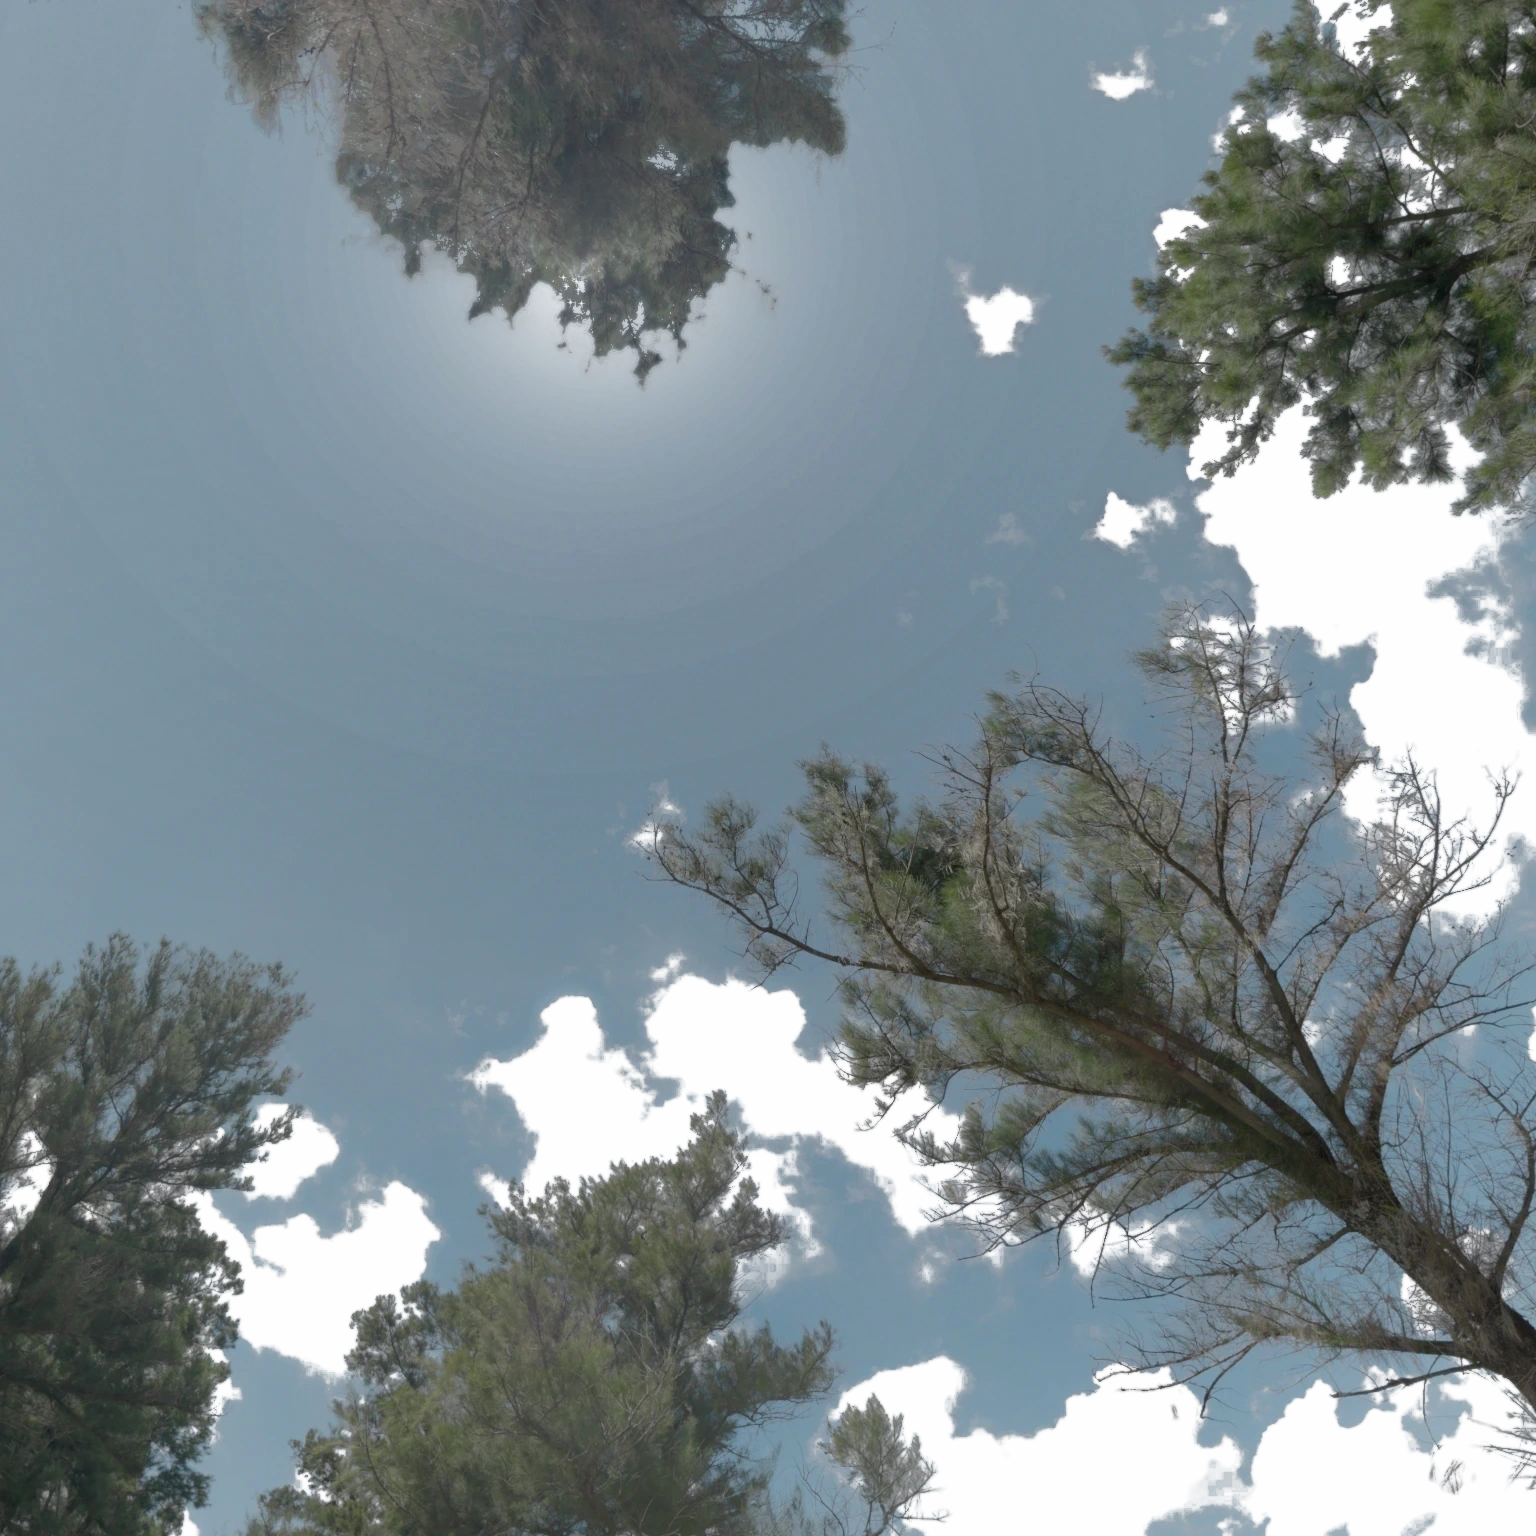
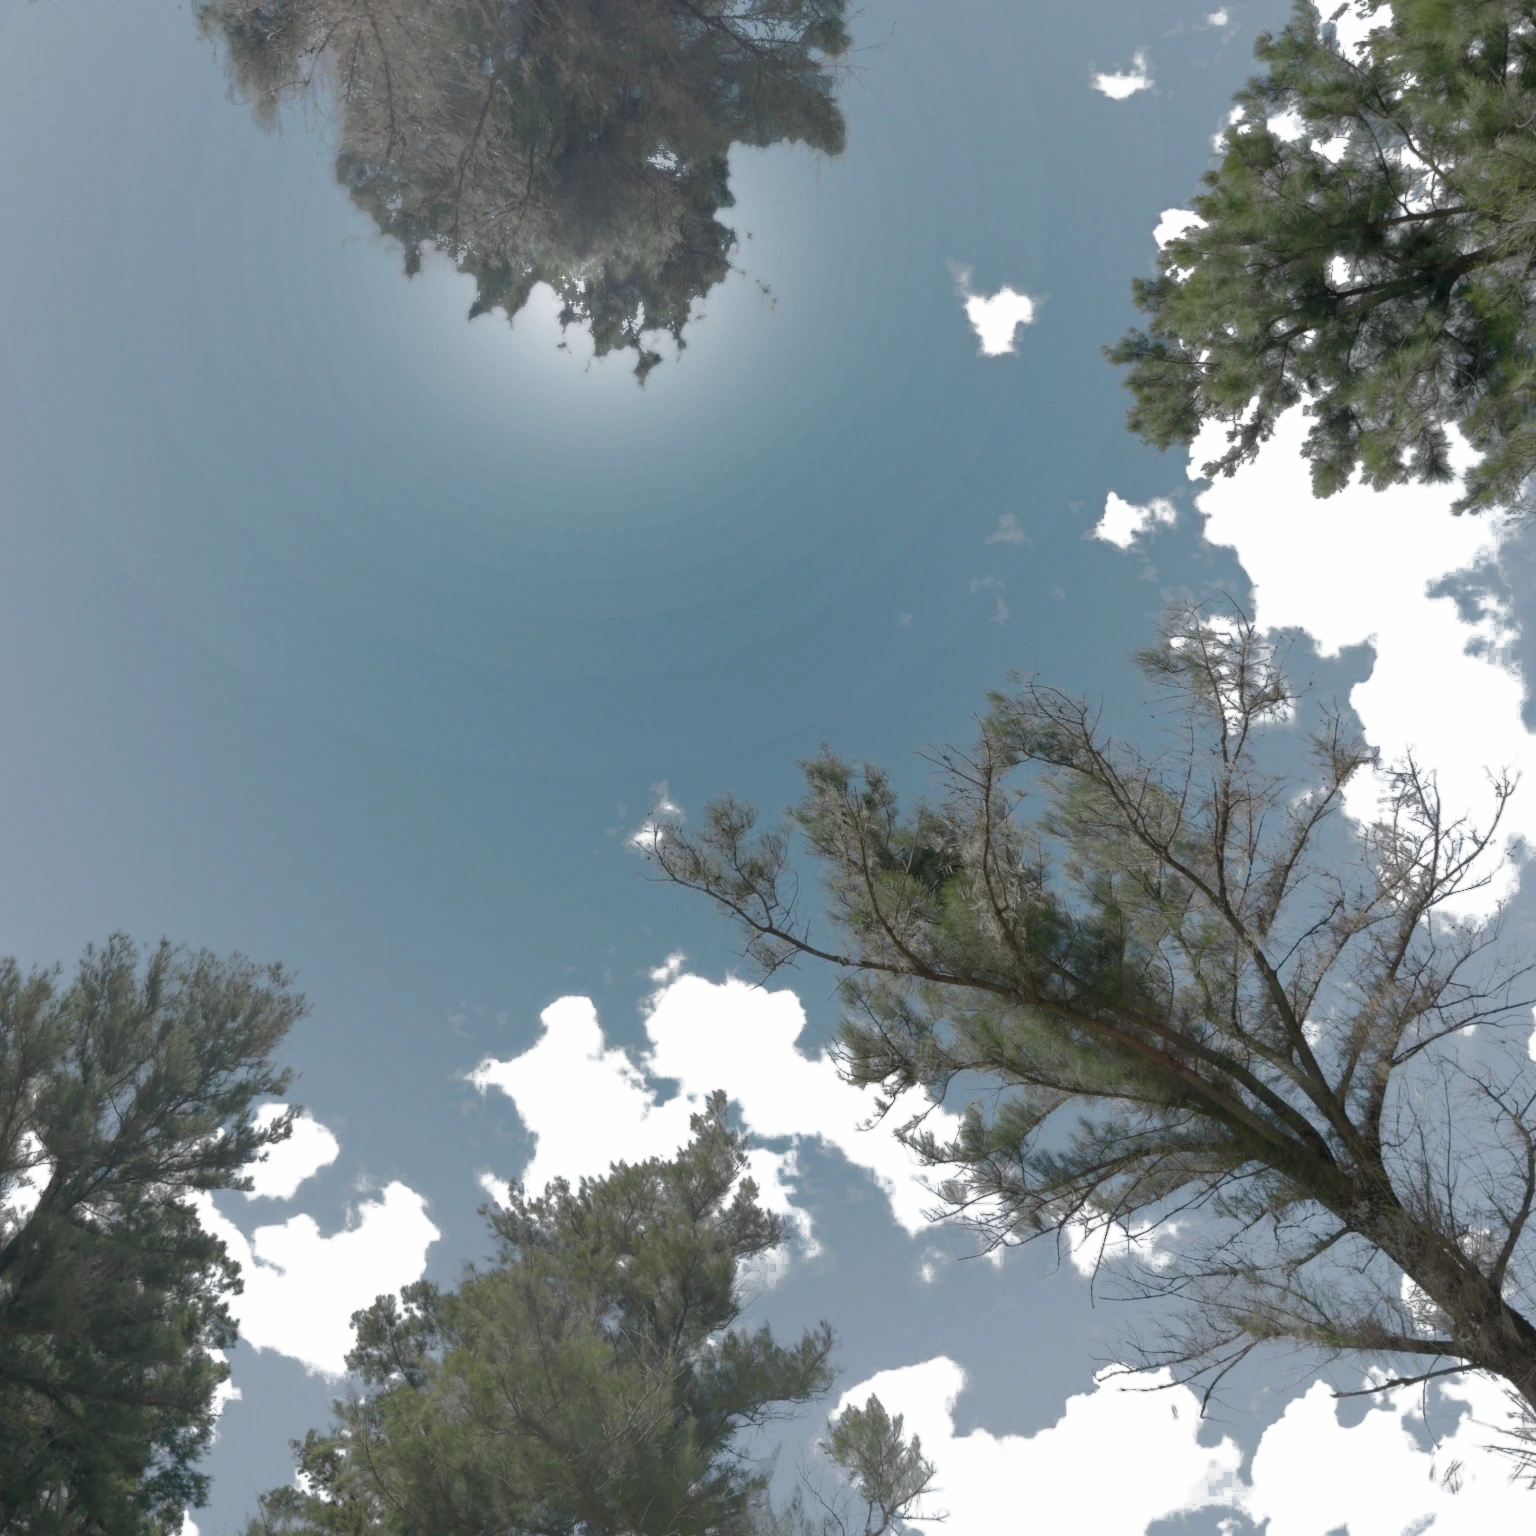
Lab: climb overexpose round 2
Claude-Session: https://claude.ai/code/session_01RqENhngNCzDFmJWDZueXGV

diff --git a/tools/depth/bakes/overexpose/polarise.py b/tools/depth/bakes/overexpose/polarise.py
@@ -1,0 +1,137 @@
+# Polarise the open sky: a dense cobalt zenith, centred on the convergence point.
+#
+# After sunburst.py the open sky printed as a mild phone-photo falloff: about
+# rgb(50,117,195) overhead against rgb(89,162,221) at the frame's edge, so the
+# clouds sat on a mid blue and did not glow against it. And between the hidden
+# sun and the zenith (10-22 deg from the sun) the aureole's broad cyan-white
+# skirt, laid over deepen.py's residual field, left a lumpy, greyer patch that
+# read as a smudge rather than as part of either gradient.
+#
+# Here, on the shipped bake, the open sky's local smooth field is read (a masked
+# blur over confident open blue sky, so it carries the lumps, the skirt and the
+# haze near cloud) and replaced by a clean target:
+#   - a radial function of zenith angle alone, centred on the zenith the pines
+#     converge on: ZEN overhead (prints about rgb(24,90,170) at 0 EV, hue ~213,
+#     saturation ~0.86, as a polariser takes a clear summer sky), opening out
+#     as (z / Z_RIM) ** ZPOW in log radiance to RIM (about rgb(106,167,228),
+#     hue ~210) at the frame's mid-edges; both ends are solved through the
+#     piece's own negative + print, so the hue stays on 210-213 all the way out;
+#   - times a tight aureole around the hidden sun (AUR_A, AUR_W), matched to the
+#     sky sunburst.py left 5-6 deg out, so the halo hugging the crown is kept
+#     but its broad skirt no longer greys the middle of the frame. Within
+#     KEEP_DEG of the sun nothing changes (the aureole, fringe and sparkles are
+#     sunburst.py's), easing into the new field by KEEP_DEG[1].
+# Only the sky's share of each pixel takes the change: the share is the lesser
+# of a luminance share (needles: over the needles' own LN) and a chroma share
+# ((B - R) over the local sky's), and the relit cloud key (relight.py) takes it
+# off cloud, so needles keep their light and cloud highlights their white;
+# thin cloud takes only the sky behind it. On open sky the photograph's grain
+# rides along as the ratio of the pixel to the local field, and the re-encode
+# is TPDF-dithered, so the new gradient is smooth and does not band.
+# The optics take the change's own linear blur (bake_wormseye.optics).
+#
+# Pipeline: runs last, after sunburst.py (pass copies, never the outputs):
+#             python3 polarise.py <scene.webp> <optics.png> [preview_dir]
+# With preview_dir it writes scene.png / optics.png there and leaves public/ alone.
+import sys, os; sys.path.insert(0, os.path.dirname(os.path.abspath(__file__)))
+import numpy as np
+from PIL import Image
+from scipy import ndimage as ndi
+import bake_wormseye as bw
+import deepen
+import relight
+
+LUMA = np.array([0.2126, 0.7152, 0.0722])
+LN = 0.035                                   # the needles' own luminance (resun.py)
+ZEN = np.array([0.0376, 0.1101, 0.1859])     # overhead: prints ~rgb(24,90,170) at 0 EV
+RIM = np.array([0.1716, 0.2793, 0.4513])     # at Z_RIM: prints ~rgb(106,167,228)
+Z_RIM, ZPOW, Z_CAP = 60.0, 1.5, 1.1          # zenith angle of the mid-edge rim (deg), falloff power, cap past it
+AUR_A, AUR_W = 10.0, 3.8                     # aureole: x the target sky at the sun, e-fold (deg)
+AUR_WHITE = 0.45                             # its colour: this far from the sky's towards white
+KEEP_DEG = (4.0, 8.0)                        # sunburst.py's sky is kept inside the first, eased out by the second
+SKY_PX = 6.0                                 # masked blur of the local sky field (px)
+CLOUD_OFF = 0.85                             # share of the change the cloud key takes away
+OFF_STOPS, OFF_Q = 0.3, 0.2                  # off the field: this far in luminance (stops), or this much less blue (log2 B/R)
+
+def smooth(a, lo, hi):
+    t = np.clip((a - lo) / (hi - lo), 0, 1)
+    return t * t * (3 - 2 * t)
+
+def mblur(a, m, s):
+    return ndi.gaussian_filter(a * m, s) / np.maximum(ndi.gaussian_filter(m, s), 1e-6)
+
+def target(z, g):
+    k = np.minimum((z / Z_RIM) ** ZPOW, Z_CAP)[..., None]
+    T = np.exp(np.log(ZEN) + (np.log(RIM) - np.log(ZEN)) * k)
+    scol = T / (T @ LUMA)[..., None]
+    acol = scol + AUR_WHITE * (1 - scol)
+    acol /= (acol @ LUMA)[..., None]
+    return T + ((T @ LUMA) * AUR_A * np.exp(-g / AUR_W))[..., None] * acol
+
+def polarise(pix):
+    elev, g = deepen.geometry()
+    z = 90.0 - elev
+    Y = pix @ LUMA
+    q = np.log2(np.maximum(pix[..., 2], 1e-6) / np.maximum(pix[..., 0], 1e-6))
+    conf = ndi.binary_erosion((q > 1.0) & (Y > 0.06), iterations=2).astype(np.float64)
+    # thin cloud and small puffs are blue enough to pass for sky: anything that stands
+    # off the broader field in luminance or in blueness is not the field, so it keeps
+    # its own excess over the sky behind it instead of being flattened into it
+    Sw = np.stack([mblur(pix[..., c], conf, 16.0) for c in range(3)], -1)
+    qw = np.log2(np.maximum(Sw[..., 2], 1e-6) / np.maximum(Sw[..., 0], 1e-6))
+    off = (np.abs(np.log2(np.maximum(Y, 1e-6) / np.maximum(Sw @ LUMA, 1e-6))) > OFF_STOPS) | (qw - q > OFF_Q)
+    conf *= ~ndi.binary_dilation(off | (relight.cloud_key(pix) > 0.05), iterations=2)
+    # the local sky field behind each pixel (lumps, skirt, haze and all)
+    S = np.stack([mblur(pix[..., c], conf, SKY_PX) for c in range(3)], -1)
+    far = np.stack([mblur(pix[..., c], conf, 40.0) for c in range(3)], -1)
+    S = np.where(ndi.gaussian_filter(conf, SKY_PX)[..., None] > 0.02, S, far)
+    SY = S @ LUMA
+    seen = SY > 0.03                          # no open sky anywhere near: leave it alone
+    S = np.maximum(S, 1e-4)
+    # sky share: luminance (against needles) and chroma (against cloud), the lesser
+    t_l = np.clip((Y - LN) / np.maximum(SY - LN, 1e-3), 0, 1)
+    t_c = np.clip((pix[..., 2] - pix[..., 0]) / np.maximum(S[..., 2] - S[..., 0], 1e-4), 0, 1)
+    t = np.minimum(t_l, t_c)
+    t = np.maximum(t, ndi.gaussian_filter(conf, 0.7))
+    t *= (1 - CLOUD_OFF * relight.cloud_key(pix)) * seen
+    # the change, as a ratio of the local field; kept as it was right by the sun
+    N = target(z, g)
+    keep = 1 - smooth(g, *KEEP_DEG)
+    ratio = np.exp((1 - keep)[..., None] * np.log(N / S))
+    # grain rides along on open sky; a mixed pixel takes its share of the sky's shift
+    gr = 1 + (np.clip(pix / S, 0.5, 2.0) - 1) * conf[..., None]
+    delta = t[..., None] * gr * S * (ratio - 1)
+    # never more than 80% of a channel taken: scaled down as a whole, keeping its hue
+    lim = np.min(np.where(delta < 0, 0.8 * pix / np.maximum(-delta, 1e-9), np.inf), -1, keepdims=True)
+    out = pix + delta * np.minimum(lim, 1)
+    for name, (u, v) in dict(zenith=(0.48, 0.39), patch=(0.5, 0.25), undercrown=(0.42, 0.27), midleft=(0.03, 0.5),
+                             midright=(0.97, 0.45), top=(0.6, 0.03)).items():
+        y, x = int(v * pix.shape[0]), int(u * pix.shape[1]); sl = (slice(y - 6, y + 6), slice(x - 6, x + 6))
+        print('%-10s z %4.1f sun %4.1f deg  sky %s -> %s' % (name, z[y, x], g[y, x],
+              np.round(pix[sl].reshape(-1, 3).mean(0), 3), np.round(out[sl].reshape(-1, 3).mean(0), 3)))
+    print('sky share > 0.5: %.3f of the frame' % float((t > 0.5).mean()))
+    return out
+
+if __name__ == '__main__':
+    s = np.asarray(Image.open(sys.argv[1]).convert('RGBA'))
+    s8, a8 = s[..., :3], s[..., 3]
+    g8 = np.asarray(Image.open(sys.argv[2]).convert('RGB'))
+    pix = bw.dec_log(s8)
+    out = polarise(pix)
+    rng = np.random.default_rng(17)
+    # untouched pixels keep their codes exactly; the optics take the change's own blur
+    changed = np.abs(np.log2(out / pix)).max(-1) > 1e-3
+    s8n = np.where(changed[..., None], bw.enc_log(out, rng), s8).astype(np.uint8)
+    d_opt = bw.optics(out - pix)
+    glow = np.maximum(bw.dec_log(g8) + d_opt, 2.0 ** bw.LO)
+    g8n = np.where((np.abs(d_opt) > 1e-5).any(-1, keepdims=True), bw.enc_log(glow, rng), g8).astype(np.uint8)
+    if len(sys.argv) > 3:
+        d = sys.argv[3]
+        Image.fromarray(np.dstack([s8n, a8]), 'RGBA').save(os.path.join(d, 'scene.png'))
+        Image.fromarray(g8n, 'RGB').save(os.path.join(d, 'optics.png'))
+        print('preview written to', d)
+        sys.exit(0)
+    Image.fromarray(np.dstack([s8n, a8]), 'RGBA').save(
+        os.path.join(bw.OUT, 'scene.webp'), 'WEBP', quality=94, alpha_quality=100, method=6, exact=True)
+    bw.save_optics(g8n)
+    print('changed px %.3f; wrote' % float(changed.mean()), bw.OUT)

diff --git a/tools/depth/bakes/overexpose/bake_wormseye.py b/tools/depth/bakes/overexpose/bake_wormseye.py
@@ -3,6 +3,7 @@
 #     && python3 deepen.py <OE_WORK>/crop1536r.npy && python3 bake_wormseye.py <OE_WORK>/crop1536d.npy
 #     && python3 relight.py <copy of scene.webp> <copy of optics.png>   (cumulus relit, cloud key -> alpha)
 #     && python3 sunburst.py <copy of scene.webp> <copy of optics.png>  (the hidden sun lit: aureole, rim, optics, glow key)
+#     && python3 polarise.py <copy of scene.webp> <copy of optics.png>  (dense radial cobalt sky around the zenith)
 # (OE_WORK holds the 8k caches). bake.py is the earlier rectilinear bake, kept for reference.
 import numpy as np, io, os, sys
 from PIL import Image
